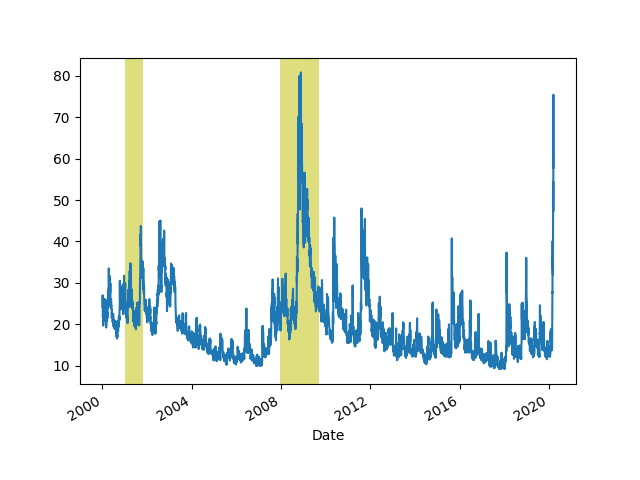
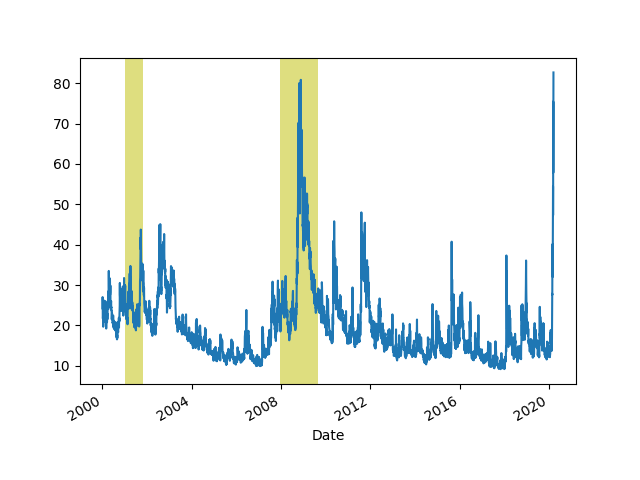
-

diff --git a/en/2019/05/stats.md b/en/2019/05/stats.md
@@ -534,9 +534,7 @@ df = data.DataReader(cols, 'fred', start, end)
 
 import pandas_datareader.data as web
 df2 = web.DataReader("^GSPC", 'yahoo', start, end)
-df2 = df2[['Adj Close']]
-
-df2['CP'] = df['CP']
+df2 = df2[['Adj Close']]; df2['CP'] = df['CP']
 df2 = df2.interpolate().dropna()
 df2.columns = ['SP500','Corporate Profits']
 df2.plot()
@@ -547,6 +545,28 @@ plt.savefig('sp500-profits.png')
 ```
 
 ![](sp500-profits.png)
+
+<a name="wilshire"></a>
+
+# Total Market Cap / GDP
+
+```python
+import pandas as pd, datetime
+from pandas_datareader import data
+
+today = datetime.datetime.now()
+start=datetime.datetime(1980, 1, 1)
+end=datetime.datetime(today.year, today.month, today.day)
+cols = ['WILL5000IND']
+df = data.DataReader(cols, 'fred', start, end)
+df.plot()
+plt.axvspan('01-09-1990', '01-07-1991', color='y', alpha=0.5, lw=0)
+plt.axvspan('01-03-2001', '27-10-2001', color='y', alpha=0.5, lw=0)
+plt.axvspan('22-12-2007', '09-05-2009', color='y', alpha=0.5, lw=0)
+plt.savefig('wilshire.png')
+```
+
+![](wilshire.png)
 
 
 <a name="junkbond"></a>
@@ -604,11 +624,11 @@ plt.savefig('vix.png')
 
 ```text
 Date
-2020-03-09    54.459999
 2020-03-10    47.299999
 2020-03-11    53.900002
 2020-03-12    75.470001
 2020-03-13    57.830002
+2020-03-16    82.690002
 Name: Adj Close, dtype: float64
 ```
 
